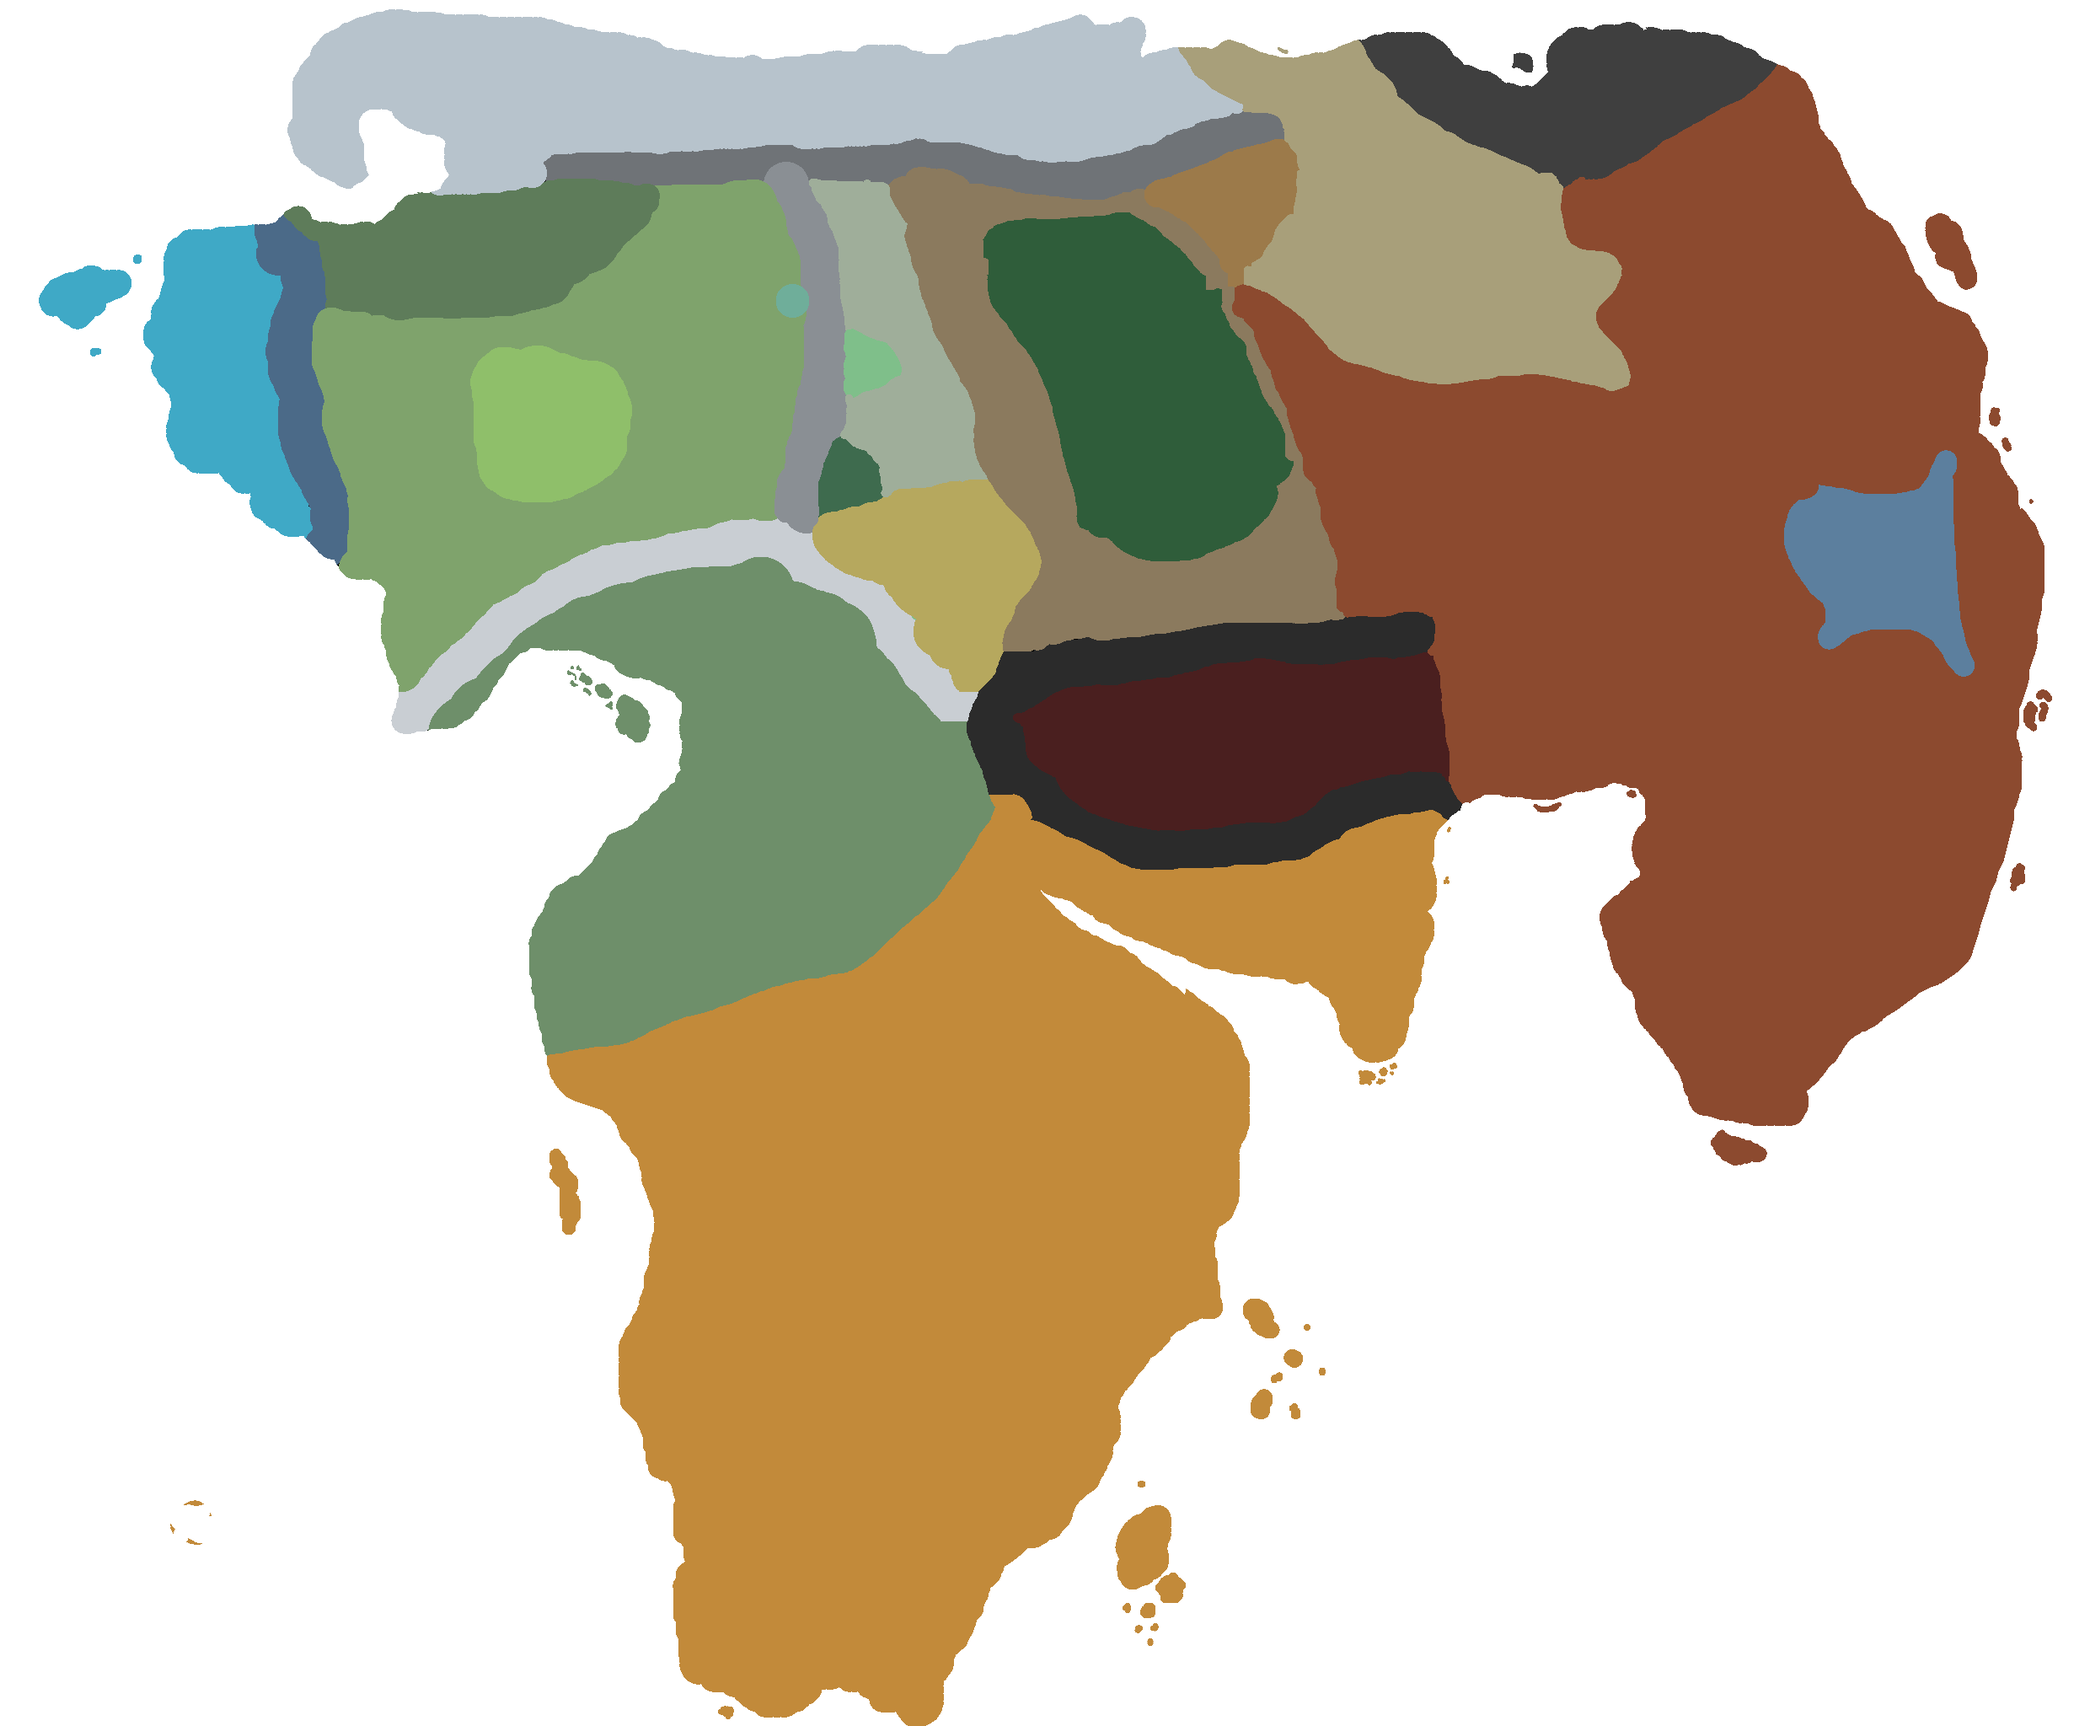
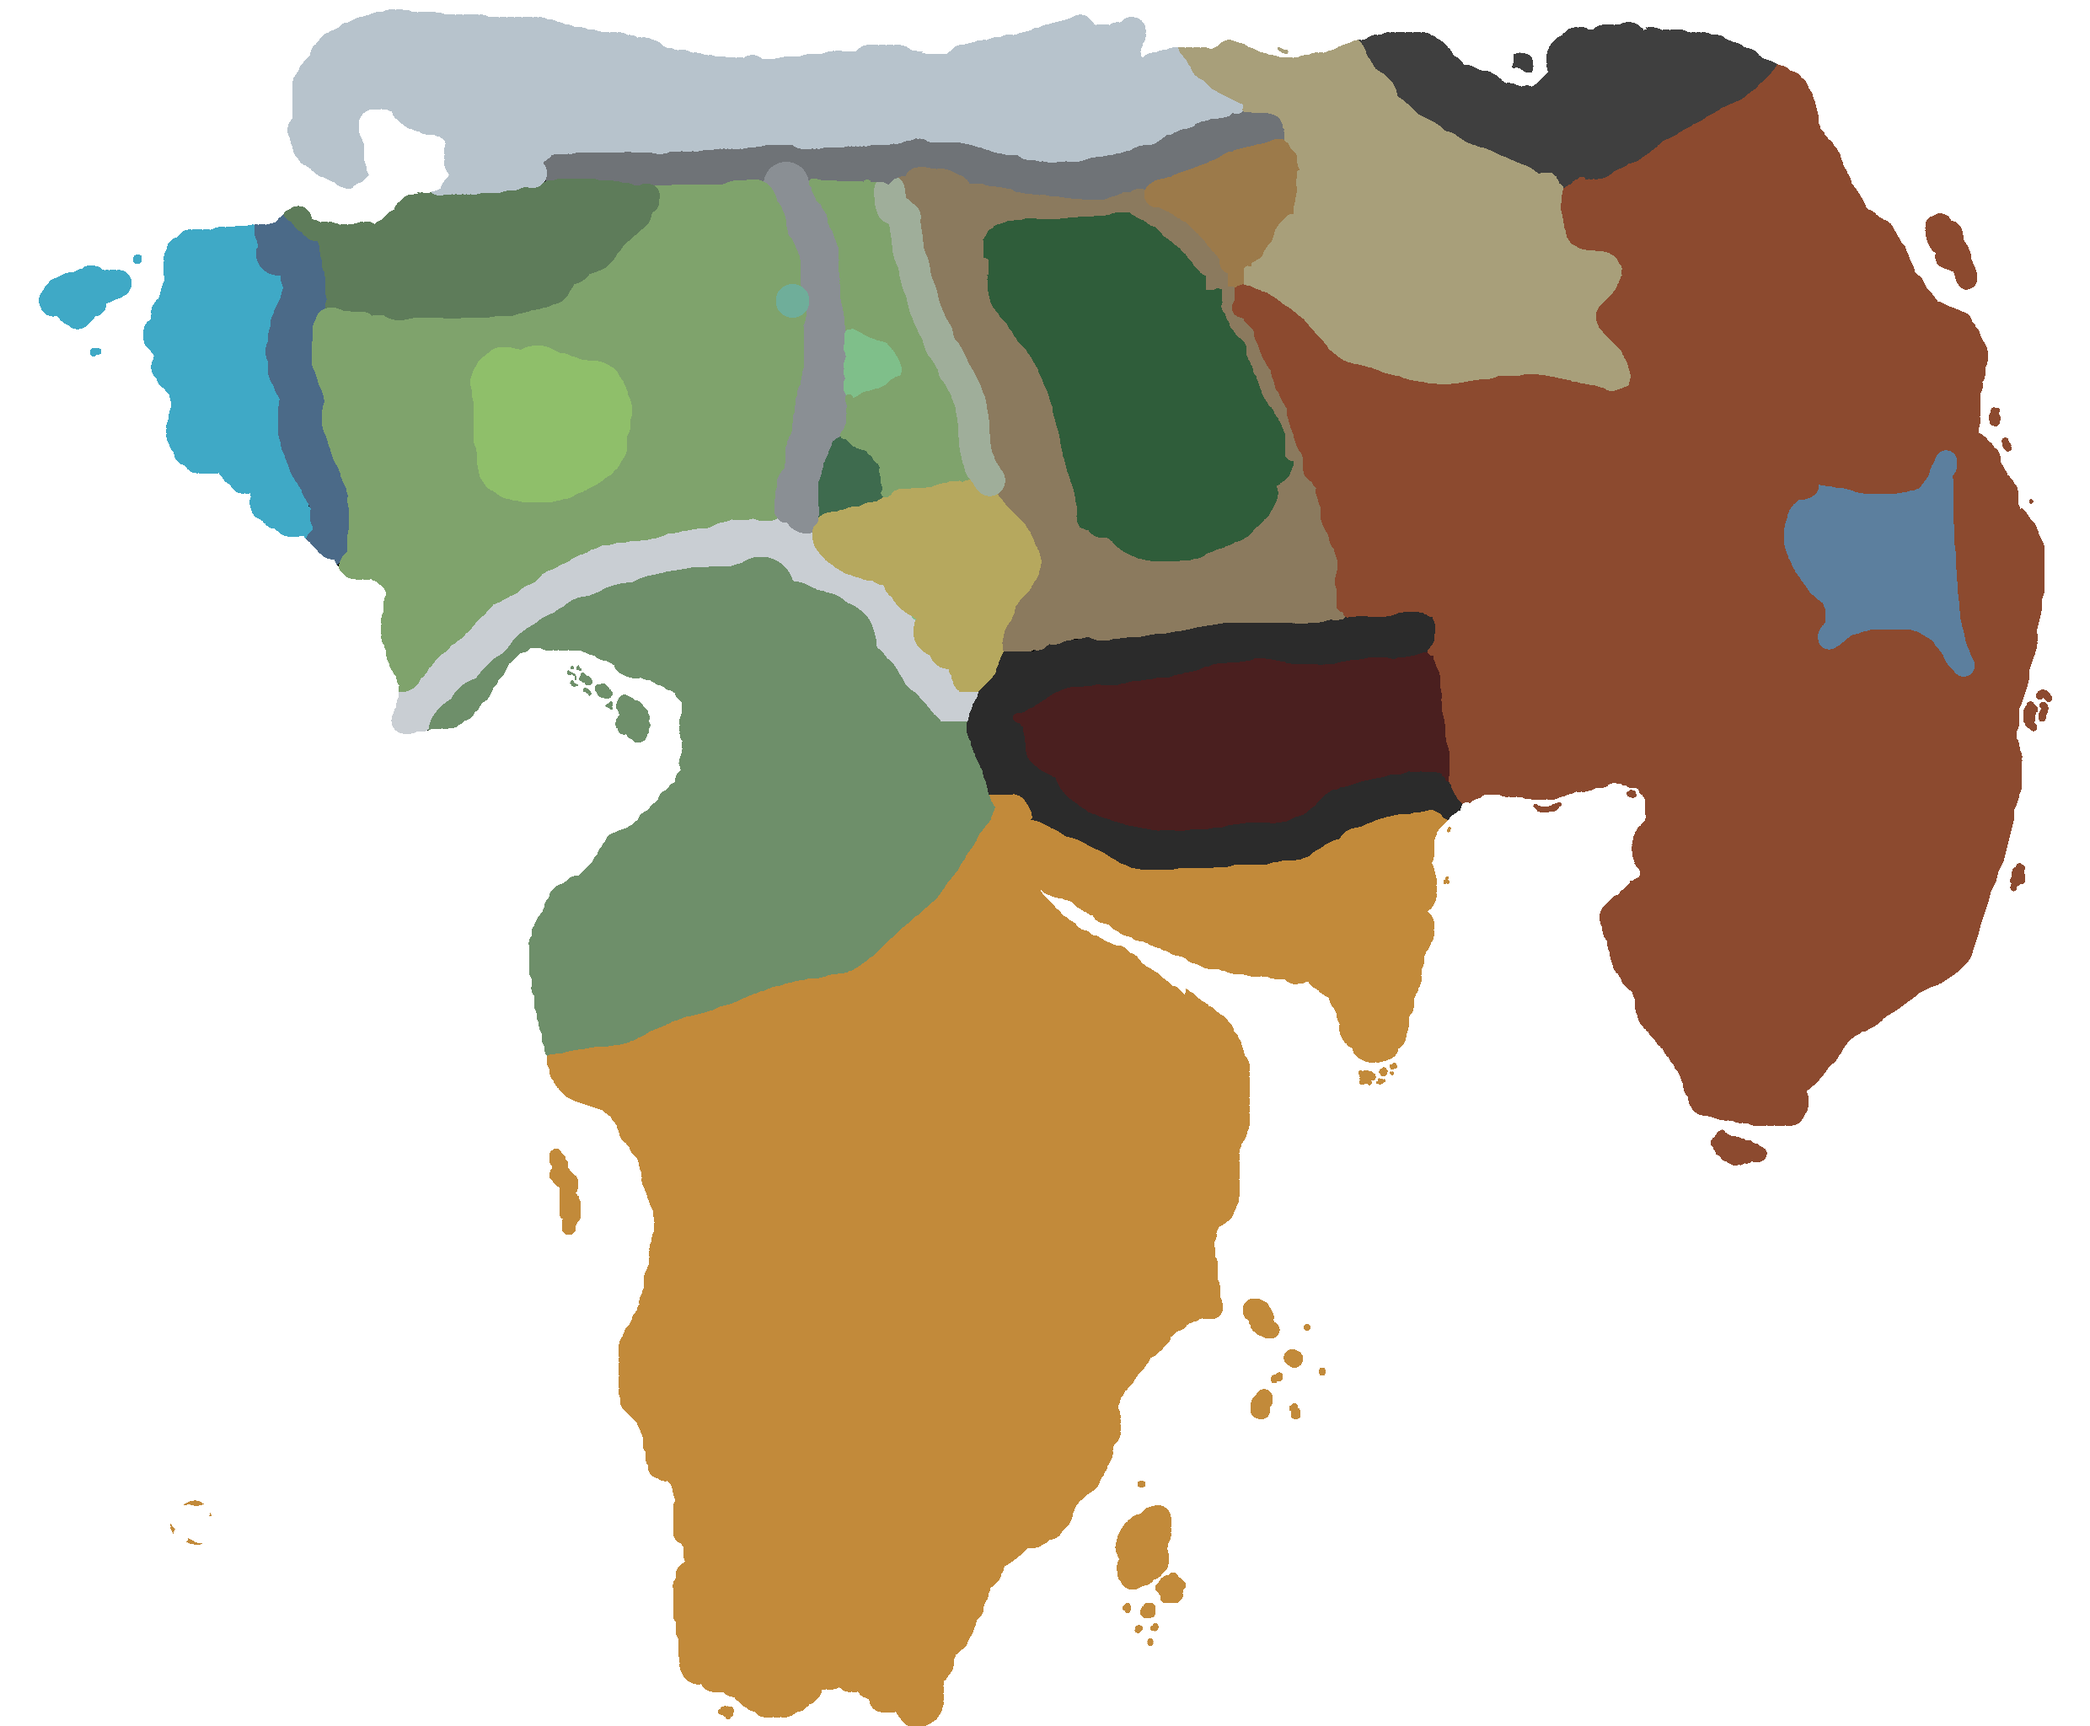
Vale of Anduin either side of the river; widen rivers
- The Vale is repainted on the region map as a band about 290 blocks wide on
  both banks of the upper Anduin, from its source to Rohan. The rest of the old
  Vale, between the band and the Misty Mountains, is now Eriador.
- Rivers are 15% wider: the Anduin 69-103 blocks, the Celduin 41-64.
- Fix the Anduin's upper course being given the Celduin's biome: a traced
  chain now takes the river most of its pixels belong to, not its first
  pixel's, which at the fork is the Celduin's.

Changed region(s): [[0.3726, 0.0938, 0.4968, 0.2812]]

diff --git a/src/main/java/com/lotrmod/worldgen/RiverMap.java b/src/main/java/com/lotrmod/worldgen/RiverMap.java
@@ -43,7 +43,7 @@ public final class RiverMap {
     private static final int CELL = 128;
 
     /** How far from its centreline a river can reach, its valley included. */
-    public static final double MAX_REACH = 220.0;
+    public static final double MAX_REACH = 240.0;
 
     /** How far, in blocks, the meander can shift a river sideways, and its feature size. */
     private static final double MEANDER_BLOCKS = 22.0;
@@ -201,7 +201,15 @@ public final class RiverMap {
             zs[i] = (p[1] - imageHeight / 2.0) * BLOCKS_PER_PIXEL;
             ws[i] = p[2];
         }
-        Region river = Region.values()[chain.get(0)[3]];
+        // The river most of the chain belongs to: a chain leaving a junction
+        // starts on a pixel that may be the other river's colour
+        int[] votes = new int[Region.values().length];
+        for (int[] p : chain) votes[p[3]]++;
+        int best = 0;
+        for (int i = 1; i < votes.length; i++) {
+            if (votes[i] > votes[best]) best = i;
+        }
+        Region river = Region.values()[best];
 
         // Chaikin corner cutting, keeping both ends where they are so chains
         // still meet at their junctions

diff --git a/README.md b/README.md
@@ -93,10 +93,11 @@ fills the channel with water up to the waterline itself; vanilla's aquifer only
 sometimes floods ground cut below sea level, and left to it rivers came out dry in
 stretches. Rivers only ever lower the ground, so where one runs into the sea or the Sea
 of Rhûn the water stays as deep as it was. The channel takes the river's biome
-(`lotrmod:anduin_river`, `lotrmod:celduin`). The Anduin widens from 60 blocks at
-its source to 90 at its mouth, and the Celduin from 36 to 56.
+(`lotrmod:anduin_river`, `lotrmod:celduin`). The Anduin widens from 69 blocks at
+its source to 103 at its mouth, and the Celduin from 41 to 64.
 
-Marshes are the third. The Vale of Anduin (shape `MARSH`) is built from
+Marshes are the third. The Vale of Anduin (shape `MARSH`), painted on the region
+map as a band about 290 blocks wide either side of the upper Anduin, is built from
 `MarshTerrain`: ground held within a block or two of the waterline, so the dips
 between low hummocks become shallow pools, which the chunk generator fills with
 water the same way it fills rivers.
